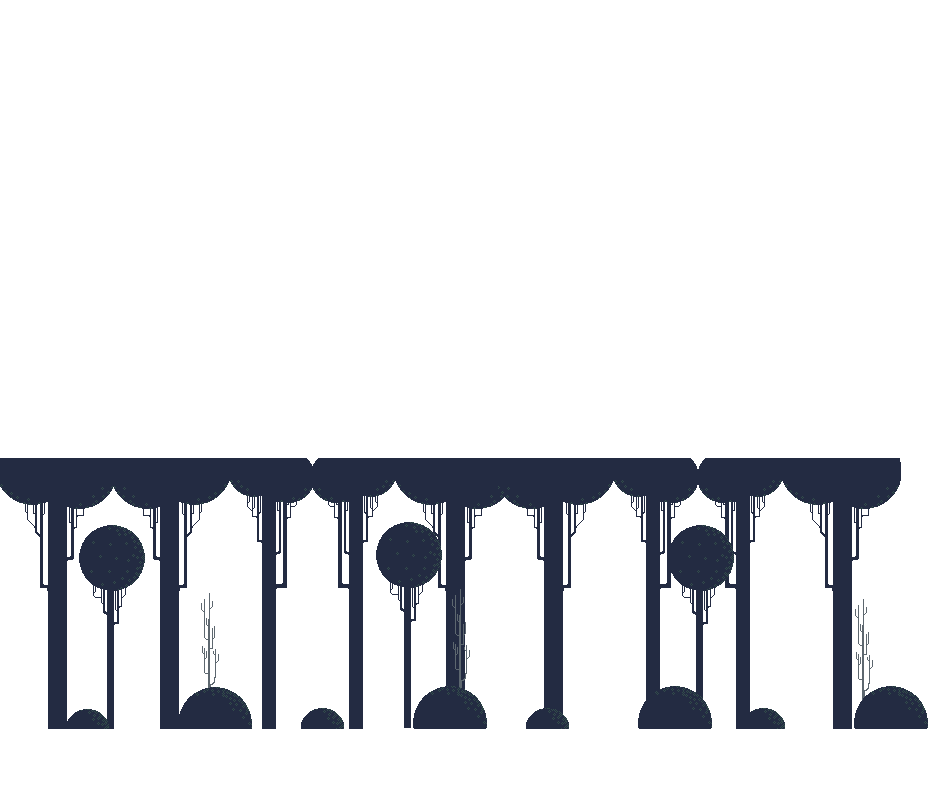
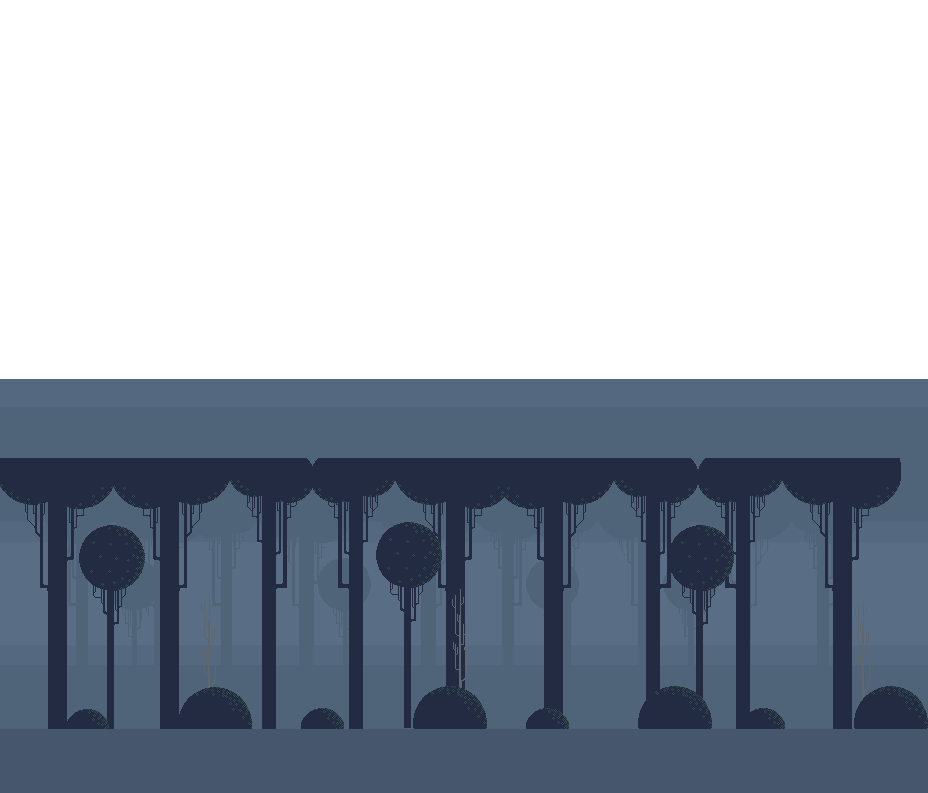
LE PARALAX

diff --git a/Runner.py b/Runner.py
@@ -1,6 +1,7 @@
 from src.Player import Player
 from src.Platform import Platform
 from src.Objects import Saw, Bird, Carrot
+import math
 import pygame
 import random
 
@@ -13,12 +14,10 @@ class Runner:
 
         self.speed = 6
 
-        self.platforms = []
+        self.platforms_sol = []
         for i in range (0,16):
-            self.platforms.append(Platform(i*64, 709, "images/vide.png", False, False))
+            self.platforms_sol.append(Platform(i*64, 709, "images/vide.png", False, False))
 
-        self.background_floor = pygame.image.load("images/floor.png").convert()
-        self.background_forest = pygame.image.load("images/forest.png").convert()
         self.x = 0
 
         #Genere un evenement aleatoire entre 2 et 3,5 secondes
@@ -38,73 +37,92 @@ class Runner:
 
         # backGroud for paralax
         self.background_images = []
-        self.background_images.append(pygame.transform.scale(pygame.image.load("images/background_layers/Layer_1.png"),
-                                                             (1024, 768)))
+        self.background_images.append(pygame.transform.scale(pygame.image.load("images/background_layers/Layer_4.png"),
+                                                             (512, 384)))
         self.background_images.append(pygame.transform.scale(pygame.image.load("images/background_layers/Layer_6.png"),
-                                                             (1024, 768)))
+                                                             (512, 384)))
         self.background_images.append(pygame.transform.scale(pygame.image.load("images/background_layers/Layer_8.png"),
-                                                             (1024, 768)))
+                                                             (512, 384)))
+
+        self.background_images[0] = pygame.transform.scale(self.background_images[0], (1024, 768))
+        self.background_images[1] = pygame.transform.scale(self.background_images[1], (1024, 768))
+        self.background_images[2] = pygame.transform.scale(self.background_images[2], (1024, 768))
+        self.x1 = 0
+        self.x2 = 0
 
         player.walking = True
 
     def update(self, x, y, screen):
 
         #Defilement du background
-        for i in range(1, 4):
-            back = self.background_images[i-1]
-            rel_x = (self.x - (6-i)) % back.get_rect().width
-            screen.blit(back, (rel_x - back.get_rect().width, 0))
-            if rel_x < 1024:
-                screen.blit(back, (rel_x, 0))
+        back = self.background_images[0]
+        rel_x = self.x2 % back.get_rect().width
+        screen.blit(back, (rel_x - back.get_rect().width, 0))
+        if rel_x < 1024:
+            screen.blit(back, (rel_x, 0))
 
-        self.x -= 6
+        back = self.background_images[1]
+        rel_x = self.x1 % back.get_rect().width
+        screen.blit(back, (rel_x - back.get_rect().width, 0))
+        if rel_x < 1024:
+            screen.blit(back, (rel_x, 0))
+
+        back = self.background_images[2]
+        rel_x = self.x % back.get_rect().width
+        screen.blit(back, (rel_x - back.get_rect().width, 0))
+        if rel_x < 1024:
+            screen.blit(back, (rel_x, 0))
+
+        self.x -= self.speed
+        self.x1 -= self.speed/2
+        self.x2 -= self.speed/3
 
         #Verfication de la collision
-        player.die(self.platforms, self.enemy, self.obstacles)
+        player.die([], self.enemy, self.obstacles)
 
         #Deplacement du joueur
         if y == -1:
-            player.jump(self.platforms)
-            player.update(self.platforms)
+            player.jump(self.platforms_sol)
+            player.update(self.platforms_sol)
         elif y == 1:
             player.velocity[0] = -2
-            player.sneak(self.platforms)
+            player.sneak(self.platforms_sol)
         else:
-            player.update(self.platforms)
+            player.update(self.platforms_sol)
         screen.blit(player.sprite, player.rect)
 
         if self.nb_frame == self.random_carrot_spawn:
             h = random.randint(400, 560)
-            self.carrots.append(Carrot(1000, h, 32, 32))
+            self.carrots.append(Carrot(1030, h, 32, 32))
             self.random_carrot_spawn = random.randint(45, 70)
 
         for carrot in self.carrots:
-            carrot.x -= 9
-            carrot.draw(screen)
-            if player.catchCarrot(self.carrots):
-                self.carrots.pop(self.carrots.index(carrot))
-                self.score += 1
-                print(self.score)
+            carrot.x -= self.speed
+            if player.rect.x - 100 < carrot.x < player.rect.x + 100:
+                if player.catchCarrot(self.carrots):
+                    self.carrots.pop(self.carrots.index(carrot))
+                    self.score += 1
             if carrot.x < carrot.width * -1:
-                print("Carotte supprimé")
                 self.carrots.pop(self.carrots.index(carrot))
+            carrot.draw(screen)
 
         #Ajout d'obstacles
         if self.nb_frame == self.random_frame:
-            r = random.randint(0,2)
+            r = random.randint(0, 2)
             if r == 0:
-                self.obstacles.append(Saw(800, 560, 64, 64))
+                self.obstacles.append(Saw(1030, 560, 64, 64))
             elif r == 1:
-                self.obstacles.append(Bird(800, 400, 64, 32))
+                self.obstacles.append(Bird(1030, 400, 64, 32))
 
             self.nb_frame = 0
             self.random_frame = random.randint(60,80)
 
         for obstacle in self.obstacles:
-            obstacle.x -= 9
+
+            obstacle.x -= self.speed
             obstacle.draw(screen)
             if obstacle.x < obstacle.width * -1:
-                print("Obstacle supprimé")
                 self.obstacles.pop(self.obstacles.index(obstacle))
 
         self.nb_frame += 1
+        self.speed = 6 + math.trunc(self.score/2)

diff --git a/src/Player.py b/src/Player.py
@@ -15,7 +15,7 @@ class Player:
                      pygame.transform.scale(pygame.image.load("images/lapin_course_2.png"), (66, 64)),
                      pygame.transform.scale(pygame.image.load("images/lapin_course_3.png"), (66, 64)),
                      pygame.transform.scale(pygame.image.load("images/lapin_course_4.png"), (66, 64)),
-                     pygame.transform.scale(pygame.image.load("images/lapin_stand.png"), (66,64))]
+                     pygame.transform.scale(pygame.image.load("images/lapin_stand.png"), (66, 64))]
         self.img = self.imgs[math.trunc(self.walkcount/5)]
         self.sprite = pygame.transform.flip(self.img, False, False)
         self.rect = self.sprite.get_rect()
@@ -124,15 +124,18 @@ class Player:
     def die(self, platforms, enemys, obstacles):
         mort = False
         for p in platforms:
-            # si colision avec une platforme mortel
-            if self.rect.colliderect(p.rect) and p.mortel:
-                mort = True
+            if self.rect.x - 100 < p.x < self.rect.x + 100:
+                # si colision avec une platforme mortel
+                if self.rect.colliderect(p.rect) and p.mortel:
+                    mort = True
         for e in enemys:
-            if self.rect.colliderect(e.rect):
-                mort = True
+            if self.rect.x - 100 < e.x < self.rect.x + 100:
+                if self.rect.colliderect(e.rect):
+                    mort = True
         for o in obstacles:
-            if self.rect.colliderect(o.rect):
-                mort = True
+            if self.rect.x - 100 < o.x < self.rect.x + 100:
+                if self.rect.colliderect(o.rect):
+                    mort = True
         if mort:
             # réspawn aux coordonée
             self.rect.x = self.x

diff --git a/src/Objects.py b/src/Objects.py
@@ -12,14 +12,14 @@ class Saw(object):
         self.width = width
         self.height = height
         self.rect = (x, y, width, height)
-        self.count = 0
+        self.frame_count = 0
 
     def draw(self, screen):
         self.rect = (self.x + 5, self.y + 5, self.width - 10, self.height)
-        if self.count >= 8:
-            self.count = 0
-        screen.blit(pygame.transform.scale(self.img[self.count // 2], (64, 64)), (self.x, self.y))
-        self.count += 1
+        if self.frame_count >= 8:
+            self.frame_count = 0
+        screen.blit(pygame.transform.scale(self.img[self.frame_count // 2], (64, 64)), (self.x, self.y))
+        self.frame_count += 1
         #pygame.draw.rect(screen, (255,0,0), self.rect, 2)
 
 
@@ -30,6 +30,7 @@ class Bird(Saw):
         self.rect = (self.x, self.y, self.width, self.height)
         screen.blit(pygame.transform.scale(self.img, (64, 32)), (self.x, self.y))
         #pygame.draw.rect(screen, (255,0,0), self.rect, 2)
+
 
 class Carrot(Saw):
     img = pygame.image.load(os.path.join('images', 'carrot.png'))

diff --git a/Platformer.py b/Platformer.py
@@ -28,8 +28,6 @@ class Platformer:
             self.platforms.append(Platform(x, y, map_data['block_sprite']["{}".format(item[3])].format("sol"), trav, mort))
 
     def update(self, x, y, screen):
-        # screen.blit(self.background, pygame.Surface((1024,768)).get_rect())  "user/{}.txt".format(a)
-
         player.velocity[0] = 6 * x
 
         police = pygame.font.Font(None, 20)

diff --git a/main.py b/main.py
@@ -16,7 +16,7 @@ plat = Platformer("1")
 x = 0
 y = 0
 
-phase = "runner"
+phase = "platform"
 
 
 def update(ux, uy):
